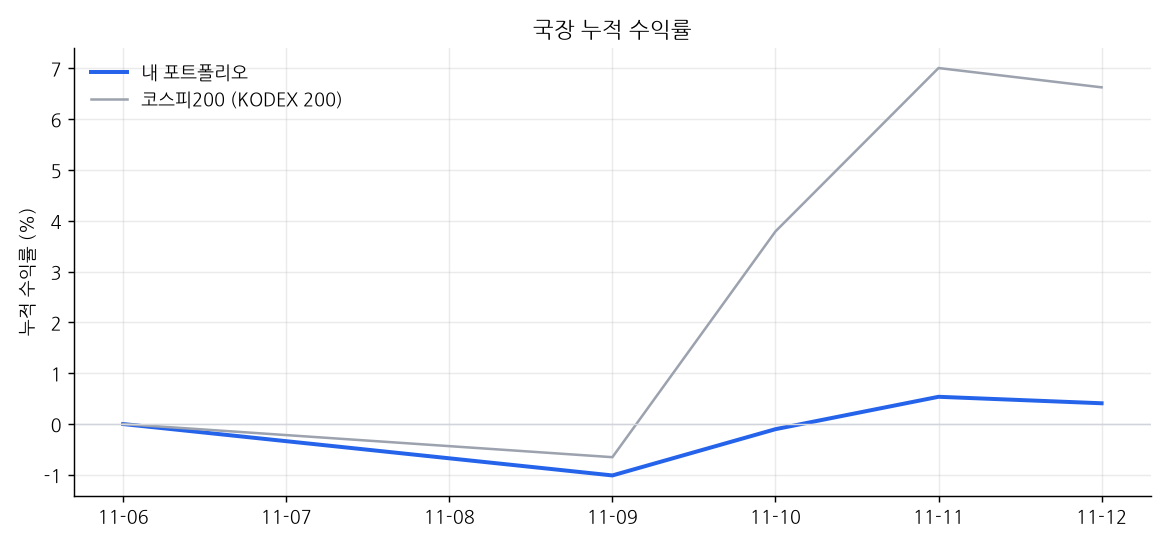
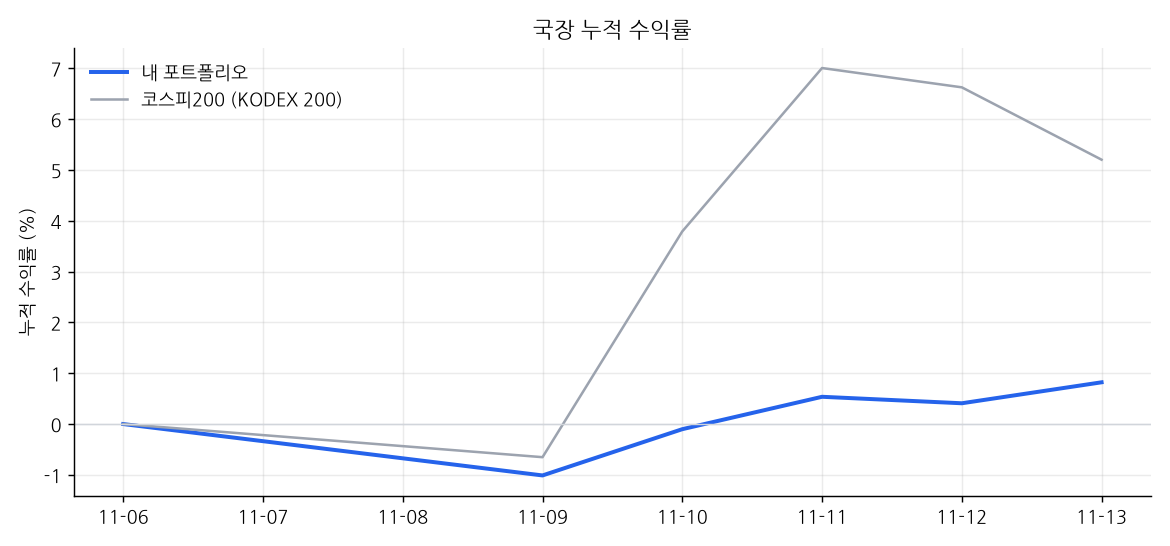
dashboard 2026-11-13 16:00

diff --git a/README.md b/README.md
@@ -1,11 +1,11 @@
 # 📈 내 자동매매 포트폴리오
 
-_마지막 갱신: 2026-11-13 07:30 (KST) · 라즈베리파이 자동 업데이트_
+_마지막 갱신: 2026-11-13 16:00 (KST) · 라즈베리파이 자동 업데이트_
 
 | 트랙 | 시작일 | 누적 수익률 | 비교 지수 | 초과 | 최근 1개월 | 국면 |
 |---|---|---|---|---|---|---|
 | 미장 | 2026-11-05 | **+7.12%** | +3.29% | +3.83% | - | BULL |
-| 국장 | 2026-11-06 | **+0.41%** | +6.63% | -6.22% | - | BEAR |
+| 국장 | 2026-11-06 | **+0.82%** | +5.20% | -4.38% | - | BEAR |
 
 ## 미장
 
@@ -33,16 +33,16 @@ _마지막 갱신: 2026-11-13 07:30 (KST) · 라즈베리파이 자동 업데이
 
 | 종목 | 비중 |
 |---|---|
-| KODEX 단기채권 | 49.3% |
+| KODEX 단기채권 | 49.1% |
 | 현금 | 14.4% |
-| 하나금융지주 | 5.0% |
-| 신한지주 | 4.9% |
+| 하나금융지주 | 5.2% |
+| 신한지주 | 5.2% |
 | 현대모비스 | 4.9% |
-| SK스퀘어 | 4.7% |
 | 삼성SDI | 4.7% |
-| 셀트리온 | 4.6% |
+| 셀트리온 | 4.7% |
+| SK스퀘어 | 4.5% |
 | 삼성물산 | 4.5% |
-| 삼성바이오로직스 | 2.9% |
+| 삼성바이오로직스 | 2.8% |
 
 ![국장 비중](charts/kr_weights.png)
 
